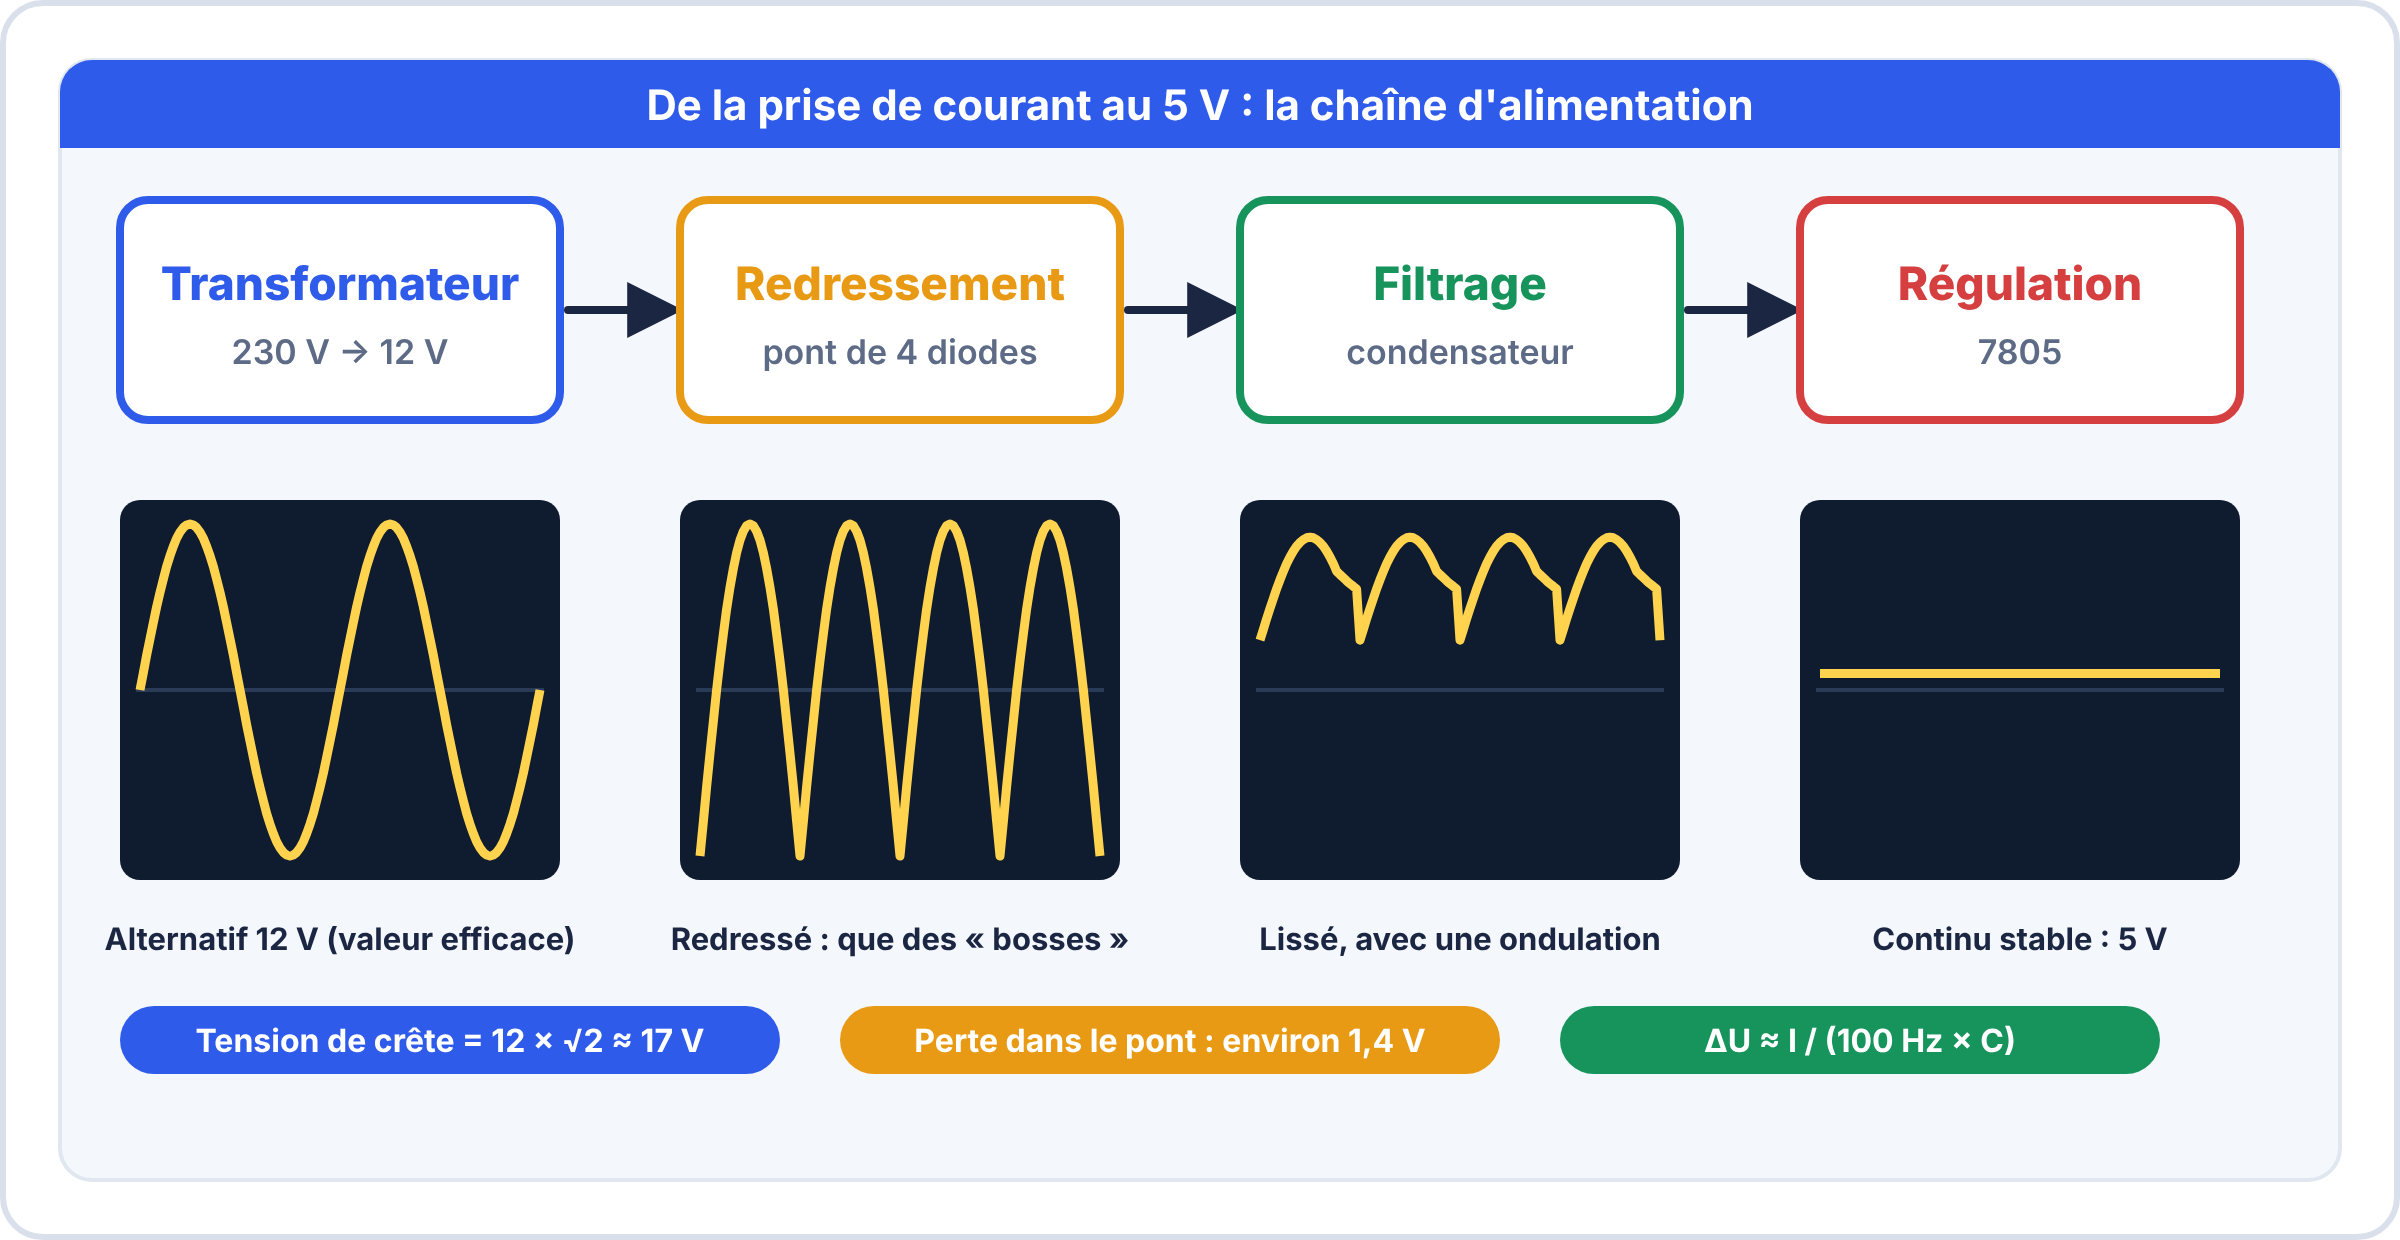
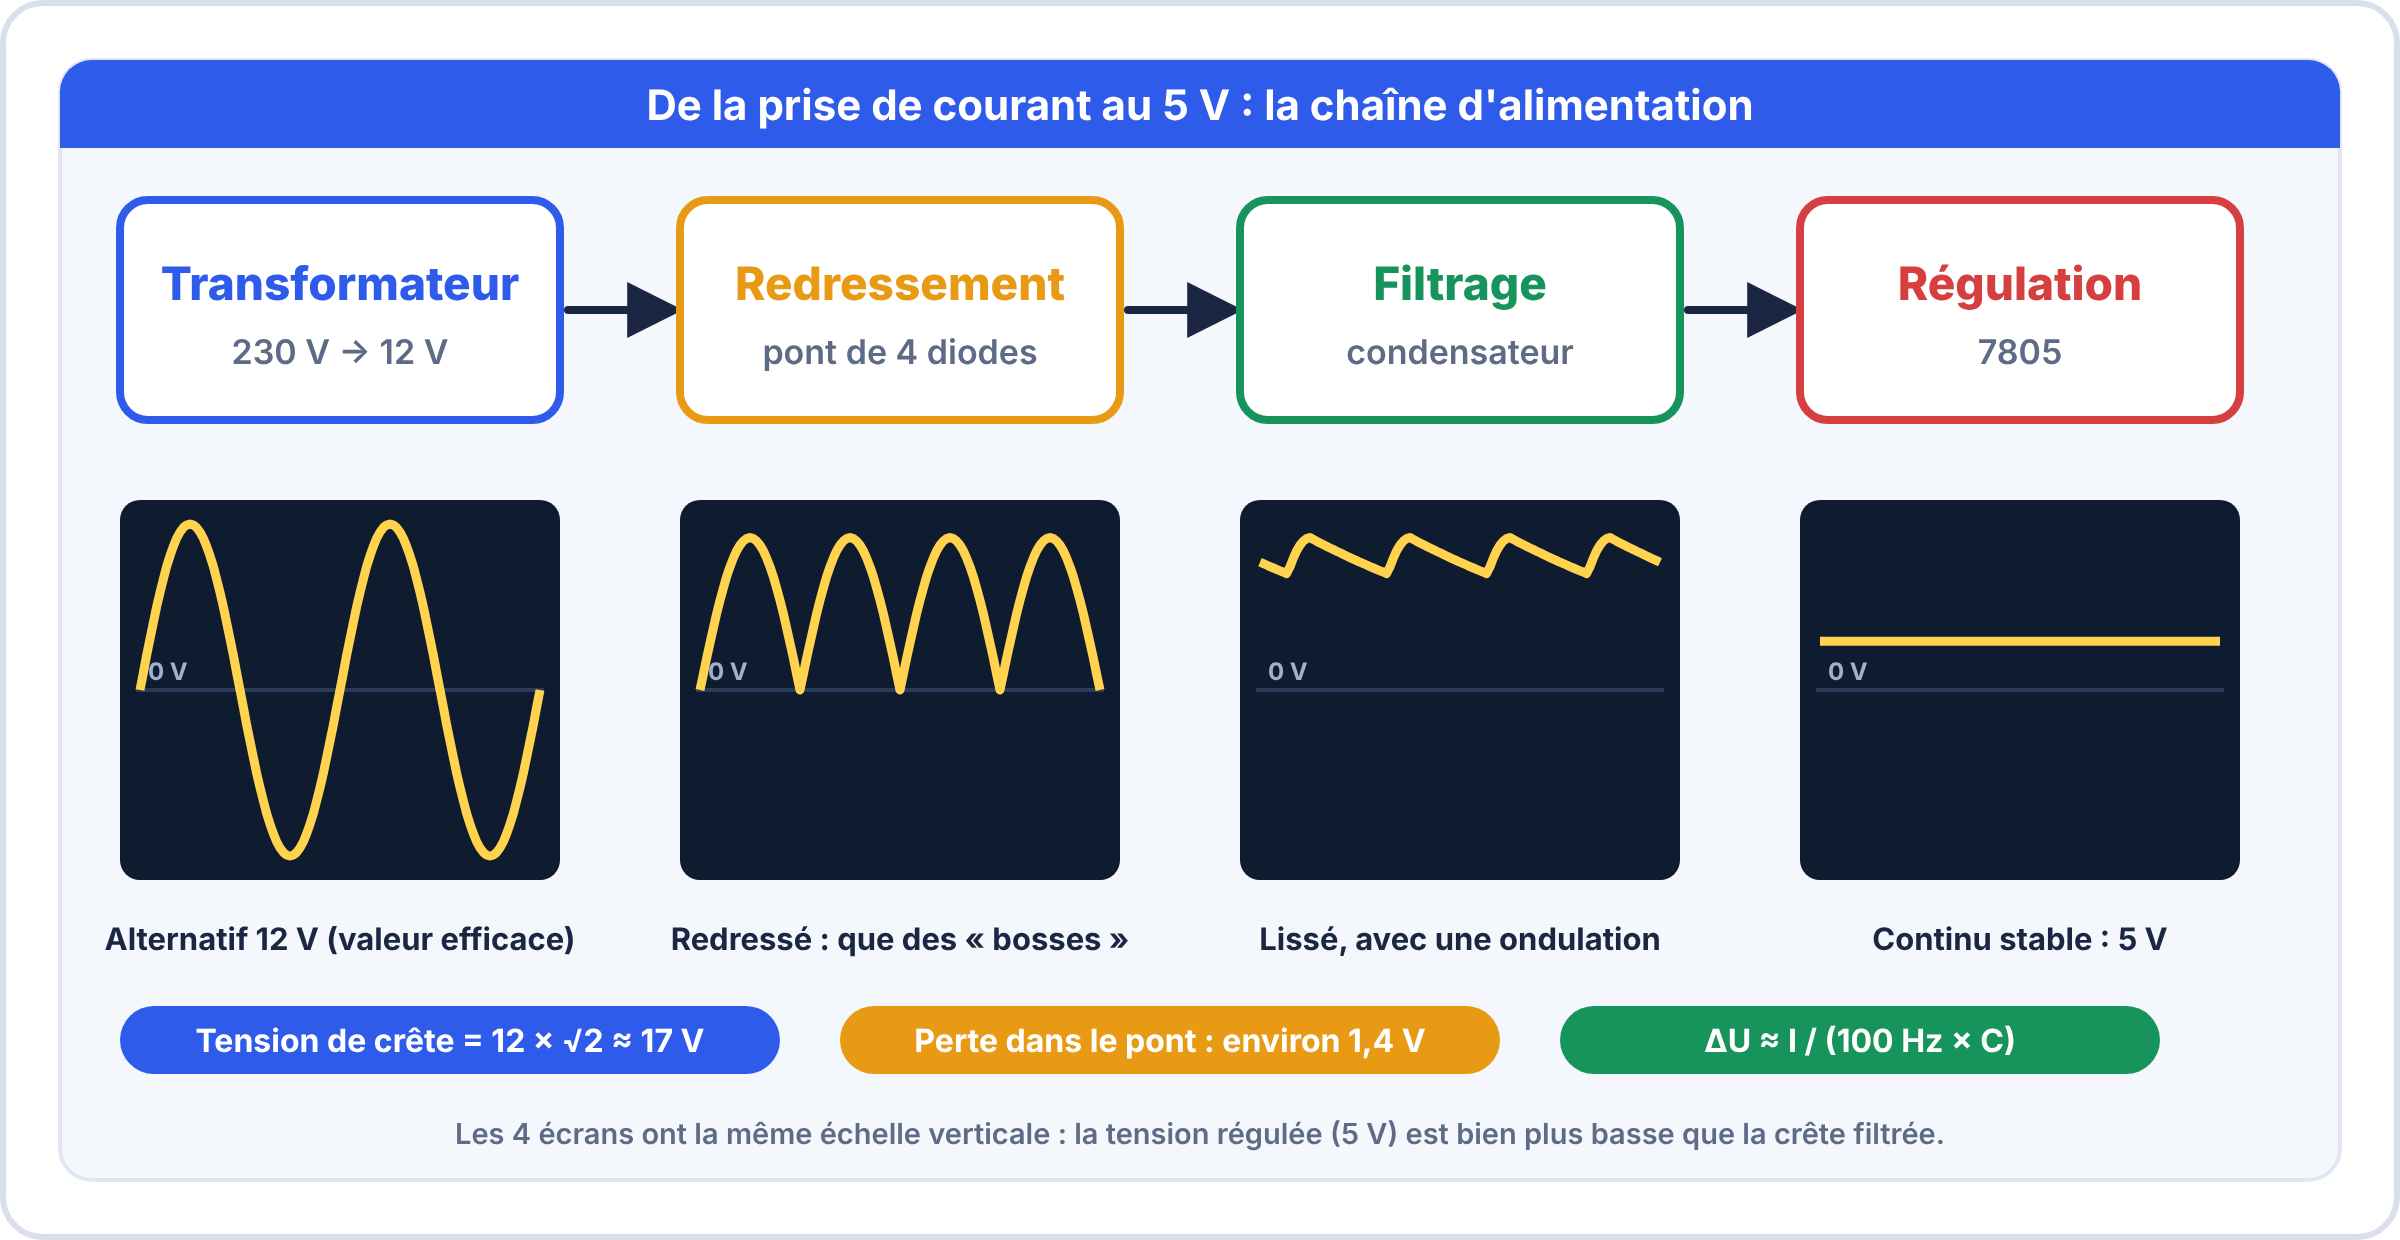
Chaîne d'alimentation : échelle verticale commune aux 4 écrans (0 V, crête filtrée, 5 V régulés)
Claude-Session: https://claude.ai/code/session_018Ln2Xo12prChdSPrkdSn9D

diff --git a/outils/illustrations-e2/figs_essentiel.py b/outils/illustrations-e2/figs_essentiel.py
@@ -316,17 +316,27 @@ def f_alim_secteur():
             o += arrow(x + 224, 155, x + 276, 155, INK, 4)
     # formes d'onde sous chaque bloc
     legs = ["Alternatif 12 V (valeur efficace)", "Redressé : que des « bosses »", "Lissé, avec une ondulation", "Continu stable : 5 V"]
+    Vp = 15.6 / 17   # crête après le pont, en fraction de 17 V (échelle commune à toutes les courbes)
+    def lisse(t):
+        u = (t * 4) % 1
+        mont = Vp * math.sin(math.pi * u) if u < 0.5 else 0
+        desc = Vp * math.exp(-0.35 * ((u - 0.5) % 1))
+        return max(mont, desc)
     wf = [
         lambda t: math.sin(2 * math.pi * 2 * t),
-        lambda t: abs(math.sin(2 * math.pi * 2 * t)) * 2 - 1,
-        lambda t: 0.30 + 0.62 * max(abs(math.sin(math.pi * ((t * 4) % 1))), math.exp(-(((t * 4) % 1) - 0.5) * 1.5) if ((t * 4) % 1) > 0.5 else 0),
-        lambda t: 0.1,
+        lambda t: abs(math.sin(2 * math.pi * 2 * t)) * Vp,
+        lisse,
+        lambda t: 5 / 17,
     ]
     for i, x in enumerate(xs):
         o += f'<rect x="{x}" y="250" width="220" height="190" rx="10" fill="#0f1b2f"/>'
         o += f'<line x1="{x+8}" y1="345" x2="{x+212}" y2="345" stroke="#2a3b57" stroke-width="2"/>'
         o += _wave(x + 10, 262, 200, 166, wf[i], "#ffd34d", sw=4.5)
+        o += T(x + 14, 340, "0 V", 12, 700, "#9fb0d0", "start")
         o += T(x + 110, 475, legs[i], 15.5, 700, INK)
+    o += T(1010, 262 + 83 - 5 / 17 * 83 - 8, "5 V", 14, 800, "#ffd34d") if False else ""
+    o += T(1010, 240, "même échelle verticale pour les 4 écrans", 13, 600, MUTED) if False else ""
+    o += T(600, 572, "Les 4 écrans ont la même échelle verticale : la tension régulée (5 V) est bien plus basse que la crête filtrée.", 14.5, 600, MUTED)
     o += cl(60, 520, "Tension de crête = 12 × √2 ≈ 17 V", BLUE, w=330, size=16)
     o += cl(420, 520, "Perte dans le pont : environ 1,4 V", AMBER, w=330, size=16)
     o += cl(780, 520, "ΔU ≈ I / (100 Hz × C)", GREEN, w=300, size=16)
